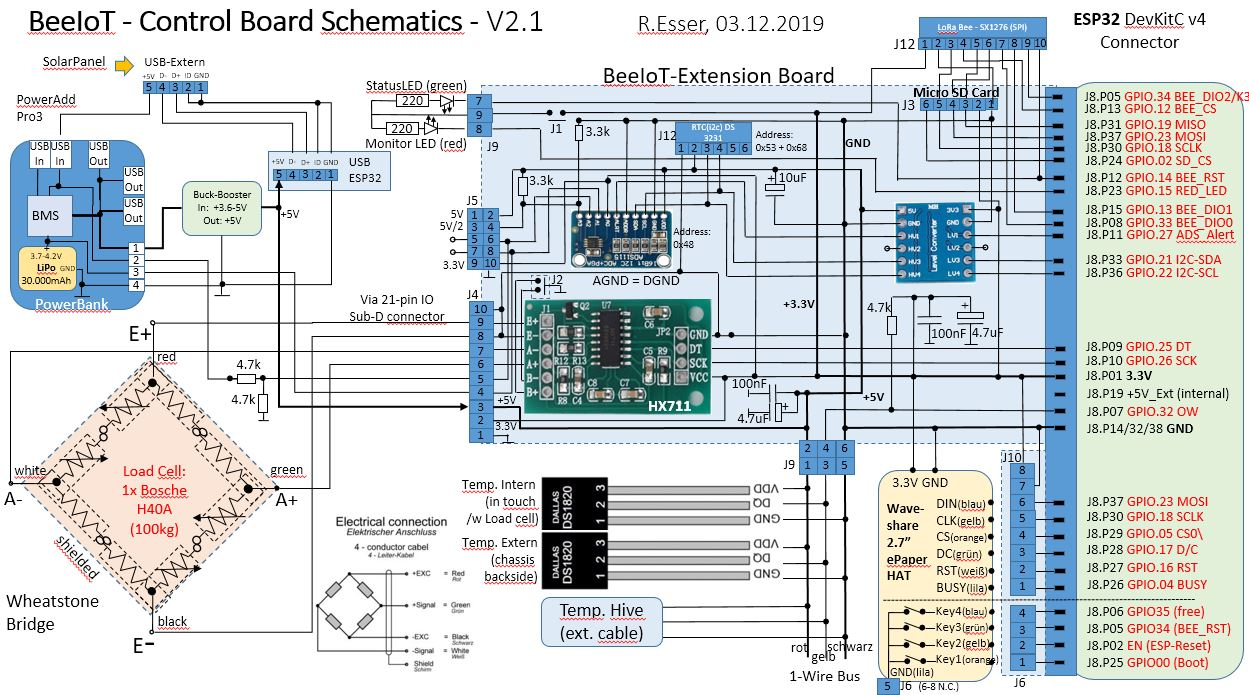
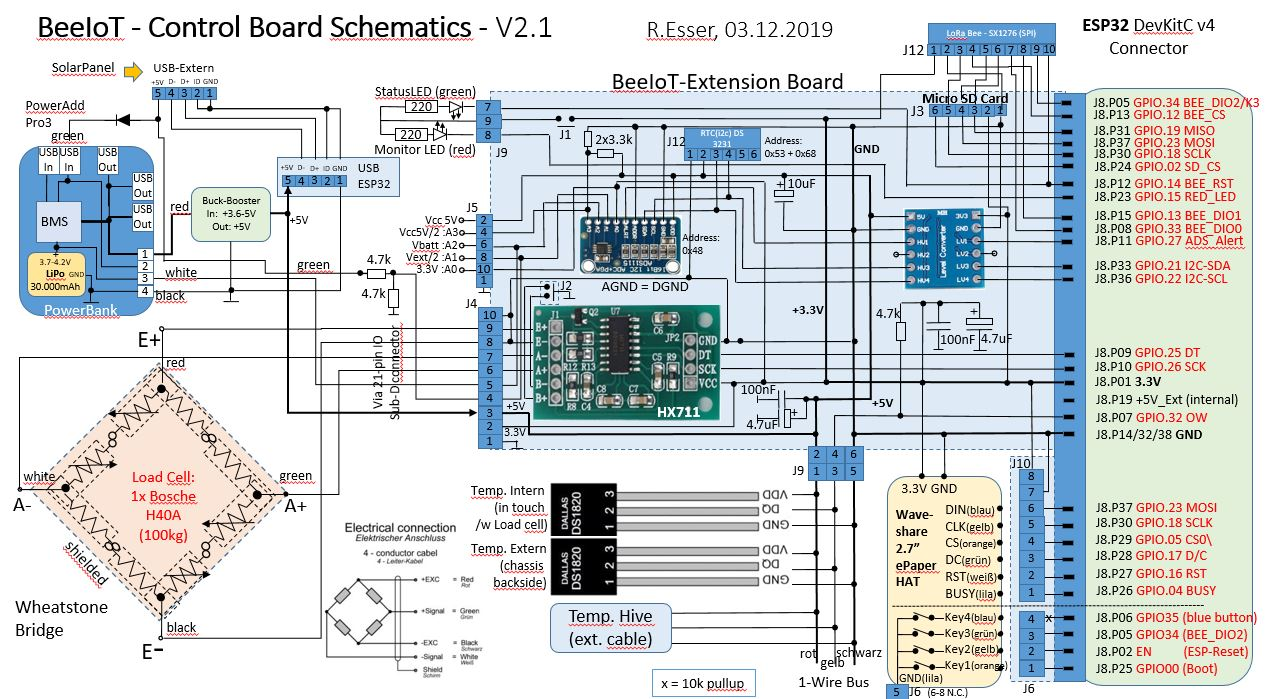
imlemented ISR for 4. (blue) button initiating immediate start of new  data collection loop + updated schematics by add. diode in Power Supply lane + pullup resistor for EPD key4 button

diff --git a/src/epd.cpp b/src/epd.cpp
@@ -58,10 +58,16 @@ extern GxEPD_Class display;   // ePaper instance from MultiSPI Module
 extern int isepd;             // =0 ePaper found
 extern dataset bhdb;          // central BeeIo DB
 extern uint16_t	lflags;      // BeeIoT log flag field
+extern bool GetData;		// =1 -> manual trigger by blue key to do next sensor loop
 
 
 uint16_t read16(SdFile& f);
 uint32_t read32(SdFile& f);
+int SetonKey(int key, void(*callback)(void));
+void onKey1(void);		// ISR for EPD_KEY1 -> Yellow Button
+void onKey2(void);		// ISR for EPD_KEY2 -> Red	  Button
+void onKey3(void);		// ISR for EPD_KEY3 -> Green  Button
+void onKey4(void);		// ISR for EPD_KEY4 -> Blue   Button
 
 //*******************************************************************
 // ePaper Setup Routine
@@ -99,10 +105,82 @@ int setup_epd() {   // My EPD Constructor
   // EPD_KEY2 => EN     == Reset Button 
   // Key3 reused by BEE_DIO2 -> defined there
   // pinMode(EPD_KEY3, INPUT_PULLUP);  // define as active 0: Key3 
-  pinMode(EPD_KEY4, INPUT_PULLUP);  // define as active 0: Key4
+	SetonKey(1, onKey1);
+	SetonKey(2, onKey2);
+	SetonKey(3, onKey3);
+	SetonKey(4, onKey4);
 
   return isepd;
 }
+
+
+//*************************************************************************
+// SetonKey()
+// Assign ISR to EPD-Keyx	(1: Yellow, 2: Red, 3: Green, 4: Blue)
+// PIN-Keys already defined in beeiot.h
+// Input:
+//   key		1..4	Key number of EPD board (PIN definition see also beeiot.h)
+//   callback	*ptr	Function ptr to be assigned to IRQ of Key-GPIO
+// Return:
+//	0			Callback assignd to IRQ of KEYx Port
+// -1			Wrong/reserved  key #
+// -2			GPIO is not ready for ISR assignment
+//*************************************************************************
+int SetonKey(int key, void(*callback)(void)){
+	if(!callback)	// NULL ptr. can not be assigned
+ 		return(-1);
+
+	switch (key){
+	case 1: 			// EPD_KEY 1
+		BHLOG(LOGEPD) Serial.println("  SetinKey: EPD-Key1 reserved by Boot Funktion of DevKitC Board");
+		return(-2);
+		break;
+	case 2: 			// EPD_KEY 2
+		BHLOG(LOGEPD) Serial.println("  SetinKey: EPD-Key1 reserved by Reset Funktion of DevKitC Board");
+		return(-2);
+		break;
+	case 3: 			// EPD_KEY 3
+		BHLOG(LOGEPD) Serial.println("  SetinKey: EPD-Key3 reserved by Bee-DIO2 Funktion of SX1276");
+		return(-2);
+		break;
+	case 4: 			// EPD_KEY 4
+		if(callback){
+			pinMode(EPD_KEY4, INPUT);	// /w ext 10k Pullup to 3.3V!
+    		attachInterrupt(digitalPinToInterrupt(EPD_KEY4), callback, RISING);
+			BHLOG(LOGEPD) Serial.println("  SetinKey: EPD-Key4 ISR assigned");
+		}else{
+	    	detachInterrupt(digitalPinToInterrupt(EPD_KEY4));
+		}
+		break;
+	default:
+		return(-1);
+		break;
+	}
+	return(0);
+}
+
+//*************************************************************************
+// onKeyx() ISR of EPD-Keyx	-> Yellow Button
+void onKey1(void){
+	BHLOG(LOGBH) Serial.println("  onKey1: EPD-Key1 IRQ: Yellow Key");
+}
+//*************************************************************************
+// onKeyx() ISR of EPD-Keyx	-> Red Button
+void onKey2(void){
+	BHLOG(LOGBH) Serial.println("  onKey2: EPD-Key2 IRQ: Red Key");
+}
+//*************************************************************************
+// onKeyx() ISR of EPD-Keyx	-> Green Button
+void onKey3(void){
+	BHLOG(LOGBH) Serial.println("  onKey3: EPD-Key3 IRQ: Green Key");
+}
+//*************************************************************************
+// onKeyx() ISR of EPD-Keyx	-> Blue button
+void onKey4(void){
+	BHLOG(LOGBH) Serial.println("  onKey4: EPD-Key4 IRQ: Blue Key");
+ 	GetData =1;		// manual trigger to start next sensor collection loop (for MyDelay())
+}
+
 
 
 // show Sensor log data on epaper Display
@@ -160,7 +238,7 @@ void showdata(int sampleID){
   display.setTextColor(GxEPD_BLACK);
 //  display.writeFastHLine(0, 16, 2, 0xFF); // does not work
 
-  display.update();
+  display.update();				// WakeUp -> update display -> BusyWait -> Sleep
   display.setRotation(rotation); // restore
 } // end of ShowData()
 

diff --git a/src/main.cpp b/src/main.cpp
@@ -141,6 +141,7 @@ extern byte   RouterNetworkDeviceState;
 long lastSendTime = 0;        // last send time
 int  report_interval = LOOPTIME; // initial interval between BIoT Reports; can be overwritten by CONFIG
 char LoRaBuffer[256];         // buffer for LoRa Packages
+bool GetData = 0;			// =1 manual trigger by ISR (blue key) to start next measurement
 
 
 //************************************
@@ -494,7 +495,12 @@ void mydelay(int32_t tval){
 //        CheckWebPage();
 //      }
     delay(2000);  // wait 2 second
-  }
+	if(GetData){
+		// user wants next measurement loop
+		GetData = 0;	// reset loop trigger flag
+		return;			// and start next measurement loop
+	}
+  } // loop
 }
 
 //*******************************************************************
